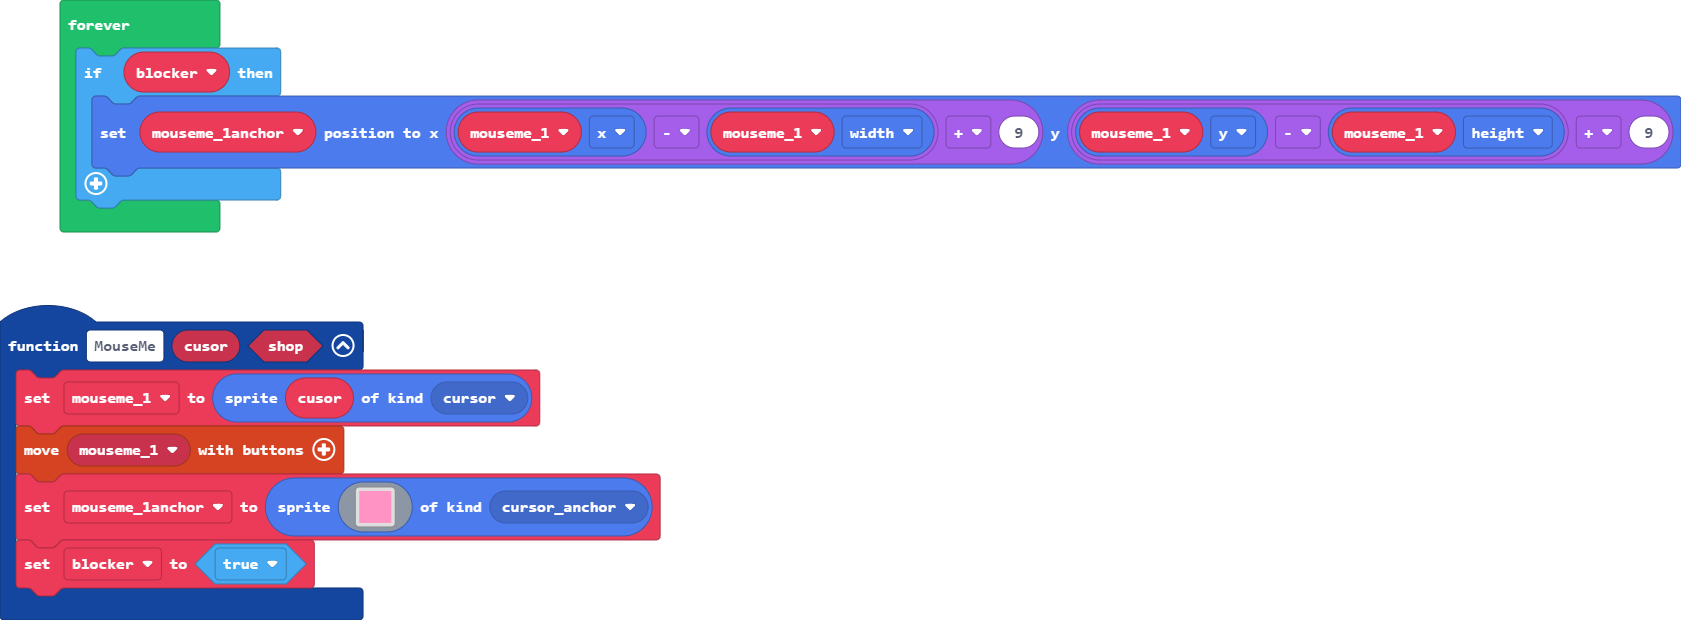
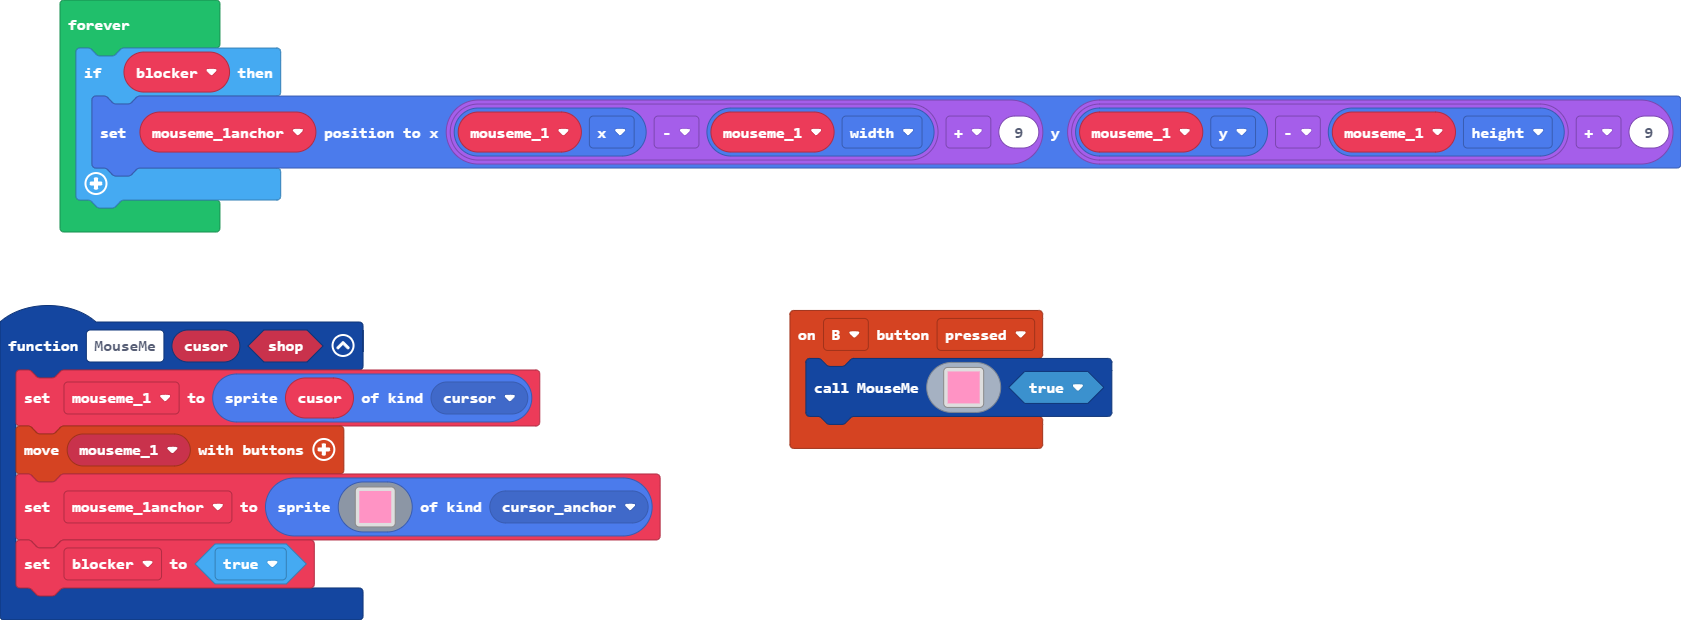
Update main.blocks, main.ts

Changed region(s): [[0.464, 0.4903, 0.6805, 0.7355]]

diff --git a/main.ts b/main.ts
@@ -5,6 +5,12 @@ namespace SpriteKind {
 let mouseme_1: Sprite = null
 let mouseme_1anchor: Sprite = null
 let blocker = false
+controller.B.onEvent(ControllerButtonEvent.Pressed, function () {
+    MouseMe(img`
+        3 3 
+        3 3 
+        `, true)
+})
 function MouseMe (cusor: Image, shop: boolean) {
     mouseme_1 = sprites.create(cusor, SpriteKind.cursor)
     controller.moveSprite(mouseme_1)
